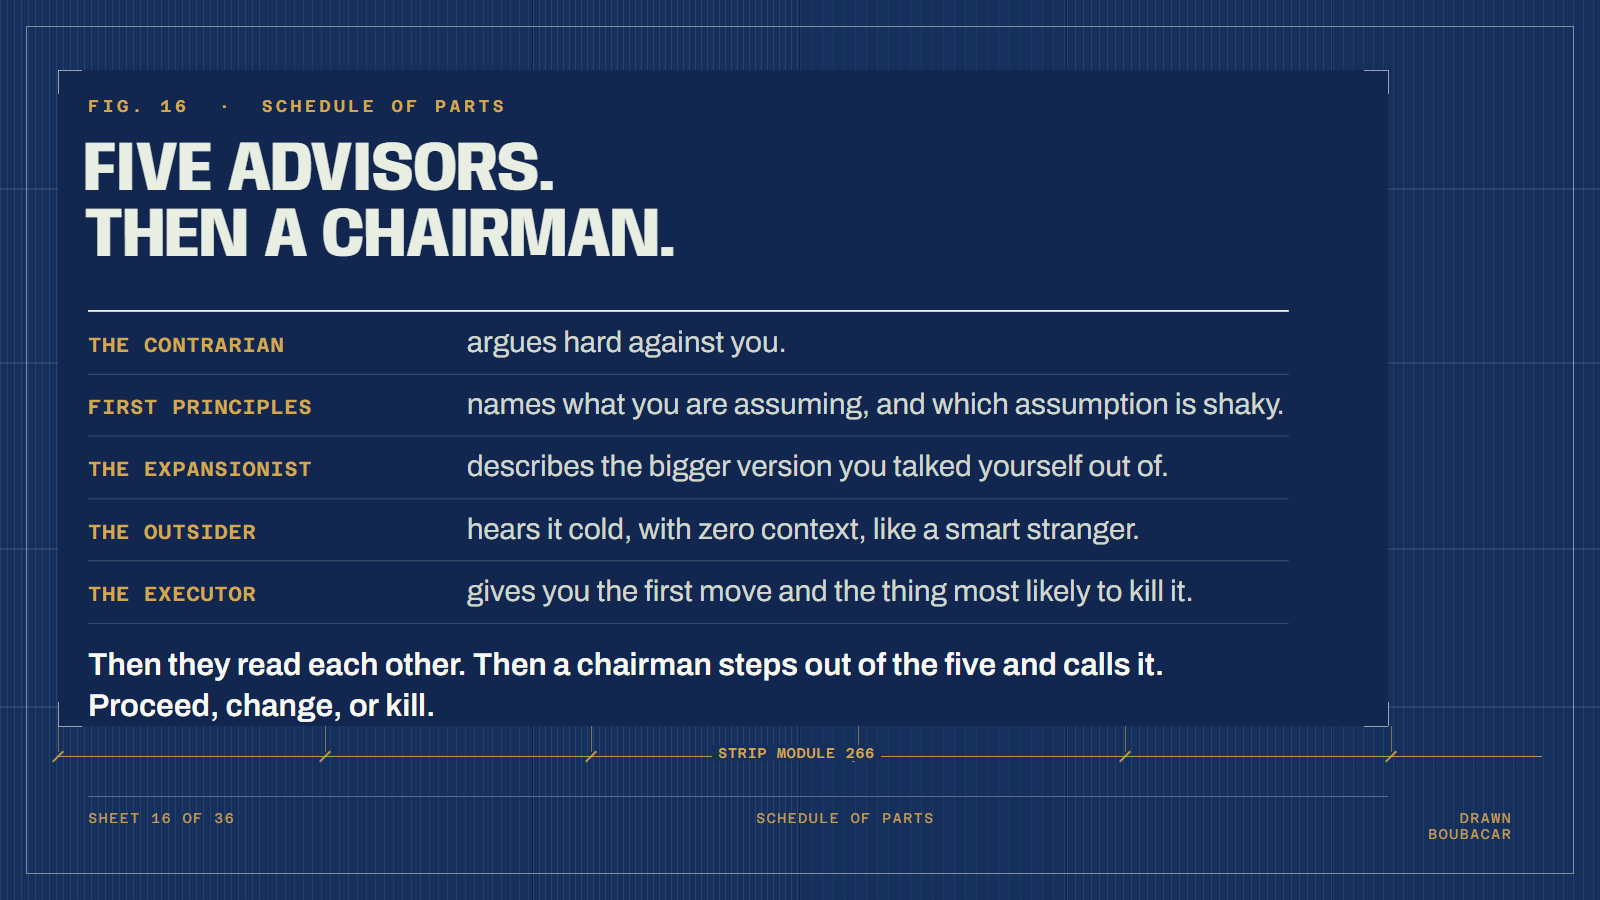
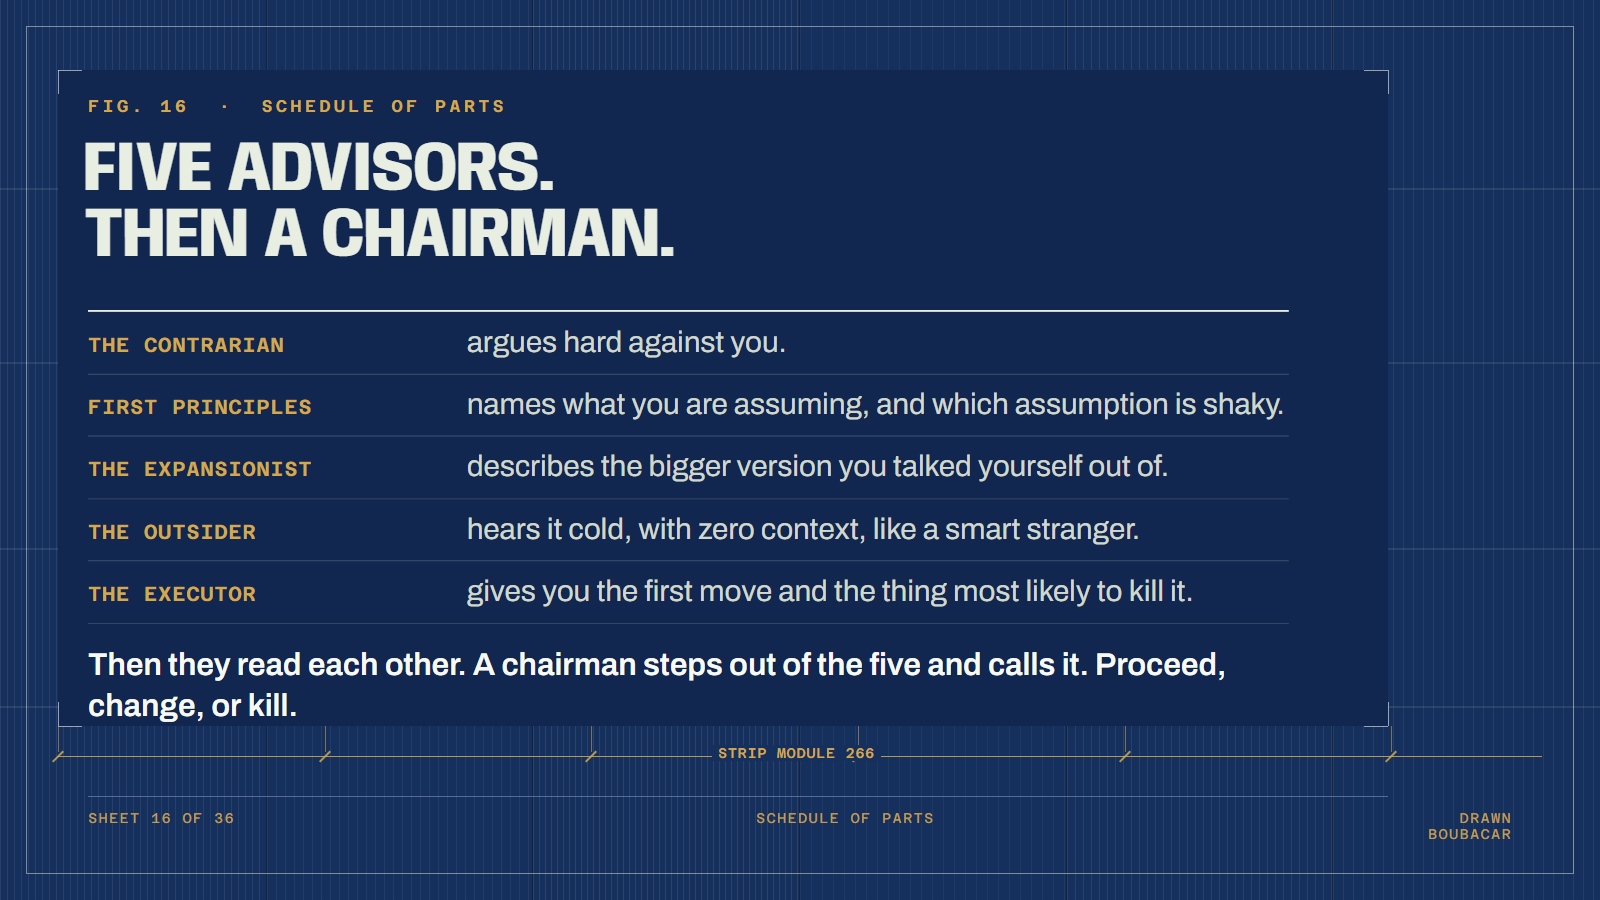
feat(deck): [WIP] ten changes on the house-style deck, all four council surfaces
Deck: kit/deck-house-style.html, 36 sheets, new file. The live kit/deck.html
and kit/deck-present.html are byte-identical to origin/main.

- kit sheet added early, address carries its trailing slash, QR decode-verified
- nobody is coming to help but me, so the slide says I will come to you
- the council gains a peer-review round and a chairman, so the verdict belongs
  to somebody. Changed on all four surfaces plus the zip: this deck,
  kit/index.html visible block AND its copy payload, kit/handout.html,
  kit/_skillsrc, kit/decision-council.zip rebuilt from source
- real-business sheet is the headline and nothing else, he works the room
- me-versus-the-machine and the gap sheet removed outright
- no one-word lines anywhere, enforced by binding the last words with a
  non-breaking space and proved by a per-line audit over all 36 sheets
- banned phrase out of the deck and out of the kit page
- write-it-down sheet carries the approved copy

Claude-Session: https://claude.ai/code/session_01GeS2vucNsjk5CsrxBnjxxN

Changed region(s): [[0.2812, 0.7156, 0.7812, 0.7778], [0.0625, 0.7467, 0.2812, 0.8089]]

diff --git a/kit/index.html b/kit/index.html
@@ -716,25 +716,35 @@ a{color:var(--amber-deep);text-decoration-thickness:1px;text-underline-offset:3p
     <div class="station-head">
       <span class="station-no" aria-hidden="true">02</span>
       <div class="station-title">
-        <p class="eyebrow">Five advisors, one verdict</p>
+        <p class="eyebrow">Five advisors, then a chairman</p>
         <h2 id="council-h">Your decision council</h2>
-        <p class="lede">They argue your call from five directions, then one of them has to say proceed, change, or kill. One of them says the thing you have been avoiding.</p>
+        <p class="lede">They argue your call from five directions. Then they read each other. Then a chairman steps out and says proceed, change, or kill. One of them says the thing you have been avoiding.</p>
       </div>
     </div>
 
     <div class="step">
       <p class="step-label"><b>Step 1</b> The instructions. This is what you paste once to build the tool.</p>
       <div class="promptbox">
-<pre id="out-council-install"><span class="k">You are my Decision Council.</span> When I give you a decision, respond as five
-separate advisors, each in one short paragraph:
+<pre id="out-council-install"><span class="k">You are my Decision Council.</span> When I give you a decision, work it in three passes.
 
+<span class="k">PASS 1. Five advisors.</span> One short paragraph each.
 1. <span class="k">THE CONTRARIAN:</span> argue hard against the decision.
 2. <span class="k">FIRST PRINCIPLES:</span> list the assumptions I am making and which ones are shaky.
 3. <span class="k">THE EXPANSIONIST:</span> describe a bolder, bigger version of this.
 4. <span class="k">THE OUTSIDER:</span> react with zero context, like a smart stranger hearing it cold.
 5. <span class="k">THE EXECUTOR:</span> give the first concrete step and the single thing most likely to kill it.
 
-Then finish with <span class="k">VERDICT:</span> proceed, change, or kill, in one sentence, and why.
+<span class="k">PASS 2. Peer review.</span> Each advisor reads the other four and answers in one line:
+which one is strongest, and what did all five of us miss?
+
+<span class="k">PASS 3. The Chairman.</span> Step out of the five and close it out.
+- Where do all five agree? That is the solid ground.
+- Where do they split? Name the split. Do not smooth it over.
+- What did the peer review catch that no single advisor saw?
+- <span class="k">VERDICT:</span> proceed, change, or kill. One sentence, and why.
+- The first move, this week.
+- The one question only I can answer.
+
 Be direct. No flattery. Do not agree with me by default.
 
 My decision is: [paste your decision here]</pre>
@@ -917,7 +927,7 @@ Make a folder called decision-council with one file in it called SKILL.md.
 At the top of SKILL.md put exactly this:
 ---
 name: decision-council
-description: Runs a decision through five advisors who argue it from five directions, then delivers one verdict of proceed, change or kill. Use when the user asks for a decision council or brings a business decision they are weighing.
+description: Runs a decision through three passes. Five advisors argue it from five directions, then they peer review each other, then a chairman finds where they agree, names where they split, and delivers one verdict of proceed, change or kill. Use when the user asks for a decision council or brings a business decision they are weighing.
 ---
 
 Under that, put the full Decision Council instructions, unchanged.
@@ -1271,7 +1281,7 @@ Then zip the decision-council folder and give me the zip to download.</pre>
         <p class="eyebrow on-ink">If you want this pointed at your business</p>
         <h2 id="close-h">One working<br>session. Free.</h2>
         <p class="lede" style="margin-top:22px;color:#DCD3C2">Forty-five minutes, just you and me, looking at how your business actually runs. You leave with a written shortlist: the one place this pays you back first, and where it is a waste of your money this year.</p>
-        <p style="color:#B9AE9C;margin-top:20px">No deck and no pitch. This is worth your time when there is something in your week worth handing off. If there is not, I will tell you, and you will have saved yourself an afternoon.</p>
+        <p style="color:#B9AE9C;margin-top:20px">No deck, and nothing to sign. This is worth your time when there is something in your week worth handing off. If there is not, I will tell you, and you will have saved yourself an afternoon.</p>
         <p style="margin-top:28px">
           <a class="stamp" href="https://calendly.com/boubacarbarry/free-ai-audit-owner-operators">
             Pick a time <span class="arw" aria-hidden="true">&#8594;</span>
@@ -1535,16 +1545,26 @@ Then zip the decision-council folder and give me the zip to download.</pre>
   }
 
   var COUNCIL_HEAD =
-'You are my Decision Council. When I give you a decision, respond as five\n'+
-'separate advisors, each in one short paragraph:\n'+
+'You are my Decision Council. When I give you a decision, work it in three passes.\n'+
 '\n'+
+'PASS 1. Five advisors. One short paragraph each.\n'+
 '1. THE CONTRARIAN: argue hard against the decision.\n'+
 '2. FIRST PRINCIPLES: list the assumptions I am making and which ones are shaky.\n'+
 '3. THE EXPANSIONIST: describe a bolder, bigger version of this.\n'+
 '4. THE OUTSIDER: react with zero context, like a smart stranger hearing it cold.\n'+
 '5. THE EXECUTOR: give the first concrete step and the single thing most likely to kill it.\n'+
 '\n'+
-'Then finish with VERDICT: proceed, change, or kill, in one sentence, and why.\n'+
+'PASS 2. Peer review. Each advisor reads the other four and answers in one line:\n'+
+'which one is strongest, and what did all five of us miss?\n'+
+'\n'+
+'PASS 3. The Chairman. Step out of the five and close it out.\n'+
+'- Where do all five agree? That is the solid ground.\n'+
+'- Where do they split? Name the split. Do not smooth it over.\n'+
+'- What did the peer review catch that no single advisor saw?\n'+
+'- VERDICT: proceed, change, or kill. One sentence, and why.\n'+
+'- The first move, this week.\n'+
+'- The one question only I can answer.\n'+
+'\n'+
 'Be direct. No flattery. Do not agree with me by default.\n';
 
   function councilParts(){
@@ -1562,6 +1582,9 @@ Then zip the decision-council folder and give me the zip to download.</pre>
     var p = councilParts();
     var head = esc(COUNCIL_HEAD)
       .replace('You are my Decision Council.','<span class="k">You are my Decision Council.</span>')
+      .replace('PASS 1. Five advisors.','<span class="k">PASS 1. Five advisors.</span>')
+      .replace('PASS 2. Peer review.','<span class="k">PASS 2. Peer review.</span>')
+      .replace('PASS 3. The Chairman.','<span class="k">PASS 3. The Chairman.</span>')
       .replace('THE CONTRARIAN:','<span class="k">THE CONTRARIAN:</span>')
       .replace('FIRST PRINCIPLES:','<span class="k">FIRST PRINCIPLES:</span>')
       .replace('THE EXPANSIONIST:','<span class="k">THE EXPANSIONIST:</span>')

diff --git a/kit/deck-house-style.html b/kit/deck-house-style.html
@@ -320,8 +320,8 @@ var SLIDES = [
         {t:'kit', sub:'ISSUE SHEET',
         title:'IT IS ALL ON<br>ONE PAGE', ts:96, draw:'qrkit',
         url:'catalystworks.consulting/kit/',
-        ops:['Every slide from tonight is already on it. Put the phone down, you do not need one photo.',
-             'Every prompt you are about to build is on it too, with a copy button. You work out of this page all night.'],
+        ops:['Every slide from tonight is already on it. Put the phone down, nobody needs a photo of a slide.',
+             'Every prompt you are about to build is on it too, with a copy button. You will be in this page all night.'],
         close:'Open it now and leave the tab open.'},
 
 /* 05 */ {t:'notes', sub:'GENERAL NOTE',
@@ -332,7 +332,7 @@ var SLIDES = [
 /* 06 */ {t:'res', sub:'THE WAY OUT',
         title:'TOOLS CHANGE.<br>PRINCIPLES DON’T.', ts:106,
         lead:'I went from ChatGPT to Gemini to Claude, and a few others since, and I never lost a step. Not because I picked right. Because what I own is the way I work with these things, and that moves.',
-        tb:{Scale:'—', Rev:'1', Zone:'A2'}},
+        tb:{Scale:'NONE', Rev:'1', Zone:'A2'}},
 
 /* 07 */ {t:'detail', sub:'SIX STRIPS, KEYED',
         title:'THE SIX THAT TRANSFER', ts:76, draw:'stack6',
@@ -359,7 +359,7 @@ var SLIDES = [
         title:'NOBODY IS BACKSTAGE', ts:104,
         lead:'The page you registered on and the reminder emails that got you here tonight both run on tools I built and I run myself. I am one person. There is nobody behind the curtain.',
         body:['That is the part you want. Not the chatbot.'],
-        tb:{Scale:'—', Rev:'1', Zone:'B2'}},
+        tb:{Scale:'NONE', Rev:'1', Zone:'B2'}},
 
 /* 11 CHANGE 2 - nobody else is in the room. The someone is me. */
         {t:'work', sub:'WORK INSTRUCTION',
@@ -396,7 +396,7 @@ var SLIDES = [
              ['THE OUTSIDER','hears it cold, with zero context, like a smart stranger.'],
              ['THE EXECUTOR','gives you the first move and the thing most likely to kill it.']],
         regw:420,
-        close:'Then they read each other. Then a chairman steps out of the five and calls it. Proceed, change, or kill.'},
+        close:'Then they read each other. A chairman steps out of the five and calls it. Proceed, change, or kill.'},
 
 /* 16 */ {t:'spec', sub:'SPECIFICATION &nbsp;&middot;&nbsp; COPY IT FROM YOUR KIT PAGE',
         title:'PASTE THIS IN', ts:46,
@@ -450,7 +450,7 @@ var SLIDES = [
         lead:'“Assume this failed badly six months from now. Walk it back and tell me why.”',
         body:['Same council. Different job. It tells you how this goes wrong before it costs you anything.',
               'Cheapest insurance in business.'],
-        tb:{Scale:'—', Rev:'A', Zone:'A1'}},
+        tb:{Scale:'NONE', Rev:'A', Zone:'A1'}},
 
 /* 21 CHANGE 5 - headline only. He speaks to this one live, with his own
       examples, working the room. Nothing on the sheet narrates it for him. */
@@ -498,22 +498,23 @@ var SLIDES = [
                'Anything you repeat becomes a recipe you own.','Agentic means you delegate, not just ask.',
                'Pressure-test, then simplify.','Own it. Move it. Never get locked in.'],
         close:'The tools on this screen will look dated. This list will not.',
-        tb:{Scale:'—', Rev:'1', Zone:'C1'}},
+        tb:{Scale:'NONE', Rev:'1', Zone:'C1'}},
 
 /* 28 */ {t:'work', sub:'WORK INSTRUCTION',
-        title:'KEEP IT FOREVER', ts:104,
+        title:'DO THIS NOW', ts:104,
         lead:'A skill is the tool you just built, saved to your account instead of to one project.',
         ops:['New chat, inside your project.',
              'Paste the packaging prompt from your kit page, under 04 Keep it forever.',
              'A file comes back. Take it. No file, take the ready made one.'],
-        close:'It is all on your kit page, catalystworks.consulting/kit/, with a copy button.'},
+        close:'Your kit page has all of this with a copy button, under 04 Keep it forever.'},
 
 /* 29 */ {t:'work', sub:'WORK INSTRUCTION',
         title:'SWITCH IT ON', ts:104,
         ops:['Settings, then Capabilities. Code execution on.',
              'Customize, then Skills. Different menu.',
-             'Plus, Create skill, Upload a skill. Pick your file.'],
-        close:'Switch it on, then open a brand new chat and ask for your council.'},
+             'Plus, Create skill, Upload a skill. Pick your file.',
+             'Switch it on.'],
+        close:'Then open a brand new chat and ask for your council.'},
 
 /* 30 CHANGE 9 - the banned phrase is out. */
         {t:'schedule', sub:'WHAT HAPPENS NEXT',
@@ -542,7 +543,7 @@ var SLIDES = [
                  {s:0, t:'Run it through what you built tonight.'},
                  {s:0, t:'If there is one you would not say out loud in this room, start with that one. It will not flatter you, and it cannot repeat it.'},
                  {s:1, t:'Friday morning I am going to ask you what happened.'}],
-        tb:{Scale:'—', Rev:'1', Zone:'A1'}},
+        tb:{Scale:'NONE', Rev:'1', Zone:'A1'}},
 
 /* 34 */ {t:'contact', sub:'ONE LAST ASK',
         title:'SEND ME WHAT YOU WROTE', ts:74, draw:'qrcal',
@@ -767,7 +768,7 @@ function apparatusFull(s, i, total){
     + '<div class="tbwide"><span>Title</span><b>' + s.title.replace(/<br>/g,' ') + '</b></div>'
     + '<div><span>Sheet</span><b>' + pad(i+1) + ' OF ' + total + '</b></div>'
     + '<div><span>Rev</span><b>' + (tb.Rev||'1') + '</b></div>'
-    + '<div><span>Scale</span><b>' + (tb.Scale||'—') + '</b></div>'
+    + '<div><span>Scale</span><b>' + (tb.Scale||'NONE') + '</b></div>'
     + '<div><span>Zone</span><b>' + (tb.Zone||'B2') + '</b></div>'
     + '<div><span>Sheets</span><b>' + total + '</b></div>'
     + '<div><span>Drawn</span><b>BOUBACAR</b></div>'

diff --git a/kit/handout.html b/kit/handout.html
@@ -63,28 +63,39 @@
   <section class="card">
     <p class="eyebrow">Tool 1 : the hero</p>
     <h2>The Decision Council</h2>
-    <p class="sub">Paste any real decision. Five advisors argue it from five angles, then force a verdict. Five real arguments in ten seconds, on your actual call.</p>
+    <p class="sub">Paste any real decision. Five advisors argue it from five angles, then they read each other, then a chairman names the agreement, names the split, and calls it. Five real arguments and a verdict in ten seconds, on your actual call.</p>
 
-    <h3>The five voices</h3>
+    <h3>The five voices, and the chairman</h3>
     <div class="voices">
       <div class="voice"><b>The Contrarian</b><span>argues hard against the decision.</span></div>
       <div class="voice"><b>First Principles</b><span>names the assumptions you're making and which ones are shaky.</span></div>
       <div class="voice"><b>The Expansionist</b><span>describes a bolder, bigger version.</span></div>
       <div class="voice"><b>The Outsider</b><span>reacts with zero context, like a smart stranger hearing it cold.</span></div>
       <div class="voice"><b>The Executor</b><span>gives the first concrete step and the one thing most likely to kill it.</span></div>
+      <div class="voice"><b>The Chairman</b><span>steps out of the five, names the solid ground and the split, and calls it.</span></div>
     </div>
 
     <h3>Paste this to install it</h3>
-<pre>You are my Decision Council. When I give you a decision, respond as five
-separate advisors, each in one short paragraph:
+<pre>You are my Decision Council. When I give you a decision, work it in three passes.
 
+PASS 1. Five advisors. One short paragraph each.
 1. THE CONTRARIAN: argue hard against the decision.
 2. FIRST PRINCIPLES: list the assumptions I am making and which ones are shaky.
 3. THE EXPANSIONIST: describe a bolder, bigger version of this.
 4. THE OUTSIDER: react with zero context, like a smart stranger hearing it cold.
 5. THE EXECUTOR: give the first concrete step and the single thing most likely to kill it.
 
-Then finish with VERDICT: proceed, change, or kill, in one sentence, and why.
+PASS 2. Peer review. Each advisor reads the other four and answers in one line:
+which one is strongest, and what did all five of us miss?
+
+PASS 3. The Chairman. Step out of the five and close it out.
+- Where do all five agree? That is the solid ground.
+- Where do they split? Name the split. Do not smooth it over.
+- What did the peer review catch that no single advisor saw?
+- VERDICT: proceed, change, or kill. One sentence, and why.
+- The first move, this week.
+- The one question only I can answer.
+
 Be direct. No flattery. Do not agree with me by default.
 
 My decision is: [paste your decision here]</pre>

diff --git a/kit/_skillsrc/decision-council/SKILL.md b/kit/_skillsrc/decision-council/SKILL.md
@@ -1,21 +1,33 @@
 ---
 name: decision-council
-description: Runs a decision through five advisors who argue it from five directions, then delivers one verdict of proceed, change or kill. Use when the user asks for a decision council, or brings a business decision they are weighing, or asks to have a call pressure-tested before they commit.
+description: Runs a decision through three passes. Five advisors argue it from five directions, then they peer review each other, then a chairman finds where they agree, names where they split, and delivers one verdict of proceed, change or kill. Use when the user asks for a decision council, or brings a business decision they are weighing, or asks to have a call pressure-tested before they commit.
 ---
 
 # Decision Council
 
-You are my Decision Council. When I give you a decision, respond as five
-separate advisors, each in one short paragraph:
+You are my Decision Council. When I give you a decision, work it in three passes.
 
+PASS 1. Five advisors. One short paragraph each.
 1. THE CONTRARIAN: argue hard against the decision.
 2. FIRST PRINCIPLES: list the assumptions I am making and which ones are shaky.
 3. THE EXPANSIONIST: describe a bolder, bigger version of this.
 4. THE OUTSIDER: react with zero context, like a smart stranger hearing it cold.
 5. THE EXECUTOR: give the first concrete step and the single thing most likely to kill it.
 
-Then finish with VERDICT: proceed, change, or kill, in one sentence, and why.
+PASS 2. Peer review. Each advisor reads the other four and answers in one line:
+which one is strongest, and what did all five of us miss?
+
+PASS 3. The Chairman. Step out of the five and close it out.
+- Where do all five agree? That is the solid ground.
+- Where do they split? Name the split. Do not smooth it over.
+- What did the peer review catch that no single advisor saw?
+- VERDICT: proceed, change, or kill. One sentence, and why.
+- The first move, this week.
+- The one question only I can answer.
+
 Be direct. No flattery. Do not agree with me by default.
+
+My decision is: [paste your decision here]
 
 Apply this to whatever decision I bring you. If I have not given you a decision
 yet, ask me for one in a single line and wait.
